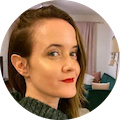
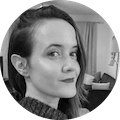
changed nanci-lancaster photo to black and white removed reviewer from Bens title (#348)

diff --git a/MAINTAINERS.md b/MAINTAINERS.md
@@ -17,7 +17,7 @@ Maintainers may focus on one or many tools. Some maintainers have different resp
 | Varsha Munishwar | [vmunishwar](https://github.com/vmunishwar)| [VMware](https://www.github.com/vmware/) |[ytt](https://github.com/vmware-tanzu/carvel-ytt) |
 | Daniel Helfand | [danielhelfand](https://github.com/danielhelfand) | [VMware](https://www.github.com/vmware/) | [kapp-controller](https://github.com/vmware-tanzu/carvel-kapp-controller) (Reviewer), [vendir](https://github.com/vmware-tanzu/carvel-vendir), [secretgen-controller](https://github.com/vmware-tanzu/carvel-secretgen-controller) |
 | Joe Kimmel | [joel-kimmel-vmw](https://github.com/joel-kimmel-vmw) | [VMware](https://www.github.com/vmware/) | [kapp-controller](https://github.com/vmware-tanzu/carvel-kapp), [vendir](https://github.com/vmware-tanzu/carvel-vendir), [secretgen-controller](https://github.com/vmware-tanzu/carvel-secretgen-controller) |
-| Ben Moss | [benmoss](https://github.com/benmoss) | [VMware](https://www.github.com/vmware/) | [kapp-controller](https://github.com/vmware-tanzu/carvel-kapp-controller) (Reviewer), [vendir](https://github.com/vmware-tanzu/carvel-vendir), [secretgen-controller](https://github.com/vmware-tanzu/carvel-secretgen-controller) |
+| Ben Moss | [benmoss](https://github.com/benmoss) | [VMware](https://www.github.com/vmware/) | [kapp-controller](https://github.com/vmware-tanzu/carvel-kapp-controller), [vendir](https://github.com/vmware-tanzu/carvel-vendir), [secretgen-controller](https://github.com/vmware-tanzu/carvel-secretgen-controller) |
 | Renu Yarday | [renuy](https://github.com/renuy) | [VMware](https://www.github.com/vmware/) | [kapp](https://github.com/vmware-tanzu/carvel-kapp) |
 | Praveen Rewar | [praveenrewar](https://github.com/praveenrewar) | [VMware](https://www.github.com/vmware/) | [kapp](https://github.com/vmware-tanzu/carvel-kapp) |
 | Yash Sethiya | [sethiyash](https://github.com/sethiyash) | [VMware](https://www.github.com/vmware/) | [kapp](https://github.com/vmware-tanzu/carvel-kapp) |
